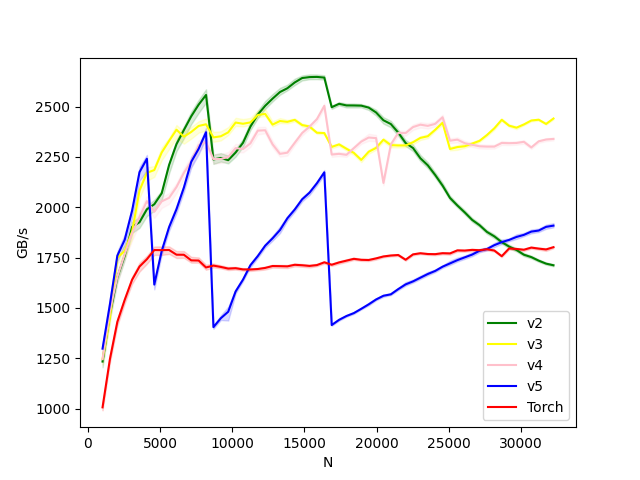
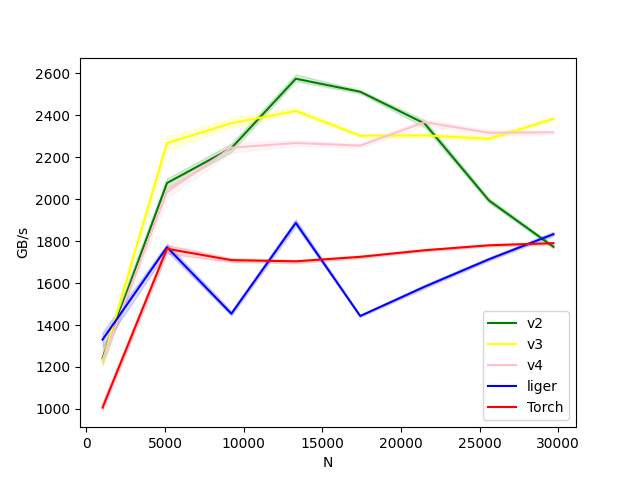
bench(layernorm): typo

diff --git a/bench/triton_layernorm.py b/bench/triton_layernorm.py
@@ -327,7 +327,7 @@ def layer_norm_triton_v4(x, weight, bias, eps=1e-6):
 # V5: Based on Liger kernel - single load of input data, pre-load weights/bias
 # Use calculate_settings to ensure BLOCK_SIZE >= N, so we only need to load once
 @triton.jit
-def _layer_norm_fwd_fused_v5(
+def _layer_norm_fwd_fused_liger(
     X,  # pointer to the input
     Y,  # pointer to the output
     W,  # pointer to the weights
@@ -379,7 +379,7 @@ def _layer_norm_fwd_fused_v5(
     tl.store(Y_row + cols, Y_f32.to(X_row_data.dtype), mask=mask)
 
 
-def layer_norm_triton_v5(x, weight, bias, eps=1e-6):
+def layer_norm_triton_liger(x, weight, bias, eps=1e-6):
     # Liger-style: single load of input data
     assert x.is_contiguous()
     T, C = x.shape
@@ -391,7 +391,7 @@ def layer_norm_triton_v5(x, weight, bias, eps=1e-6):
     BLOCK_SIZE, num_warps = calculate_settings(C)
 
     grid = (T,)
-    _layer_norm_fwd_fused_v5[grid](
+    _layer_norm_fwd_fused_liger[grid](
         x,
         out,
         weight,
@@ -423,7 +423,7 @@ def precision_check_all():
         ("v2", layer_norm_triton_v2),
         ("v3", layer_norm_triton_v3),
         ("v4", layer_norm_triton_v4),
-        ("v5", layer_norm_triton_v5),
+        ("liger", layer_norm_triton_liger),
     ]:
         y = x.clone()
         output_triton = v_fn(y, w, b)
@@ -440,10 +440,10 @@ print("Start bench..")
 @triton.testing.perf_report(
     triton.testing.Benchmark(
         x_names=["N"],
-        x_vals=[512 * i for i in range(2, 64)],
+        x_vals=[512 * i for i in range(2, 64, 8)],
         line_arg="provider",
-        line_vals=["v2", "v3", "v4", "v5", "torch"],
-        line_names=["v2", "v3", "v4", "v5", "Torch"],
+        line_vals=["v2", "v3", "v4", "liger", "torch"],
+        line_names=["v2", "v3", "v4", "liger", "Torch"],
         styles=[
             ("green", "-"),
             ("yellow", "-"),
@@ -468,8 +468,8 @@ def bench_layer_norm(M, N, dtype, provider, mode="backward", eps=1e-5, device=DE
     quantiles = [0.5, 0.2, 0.8]
 
     def y_fwd():
-        # if provider == "v1":
-        #     return layer_norm_triton_v1(x, weight, bias)  # noqa: F811, E704
+        if provider == "v1":
+            return layer_norm_triton_v1(x, weight, bias)  # noqa: F811, E704
 
         if provider == "torch":
             return torch.nn.functional.layer_norm(x, w_shape, weight, bias, eps)  # noqa: F811, E704
@@ -483,8 +483,8 @@ def bench_layer_norm(M, N, dtype, provider, mode="backward", eps=1e-5, device=DE
         if provider == "v4":
             return layer_norm_triton_v4(x, weight, bias)  # noqa: F811, E704
 
-        if provider == "v5":
-            return layer_norm_triton_v5(x, weight, bias)  # noqa: F811, E704
+        if provider == "liger":
+            return layer_norm_triton_liger(x, weight, bias)  # noqa: F811, E704
 
     def gbps(ms):
         return 2 * x.numel() * x.element_size() * 1e-9 / (ms * 1e-3)
